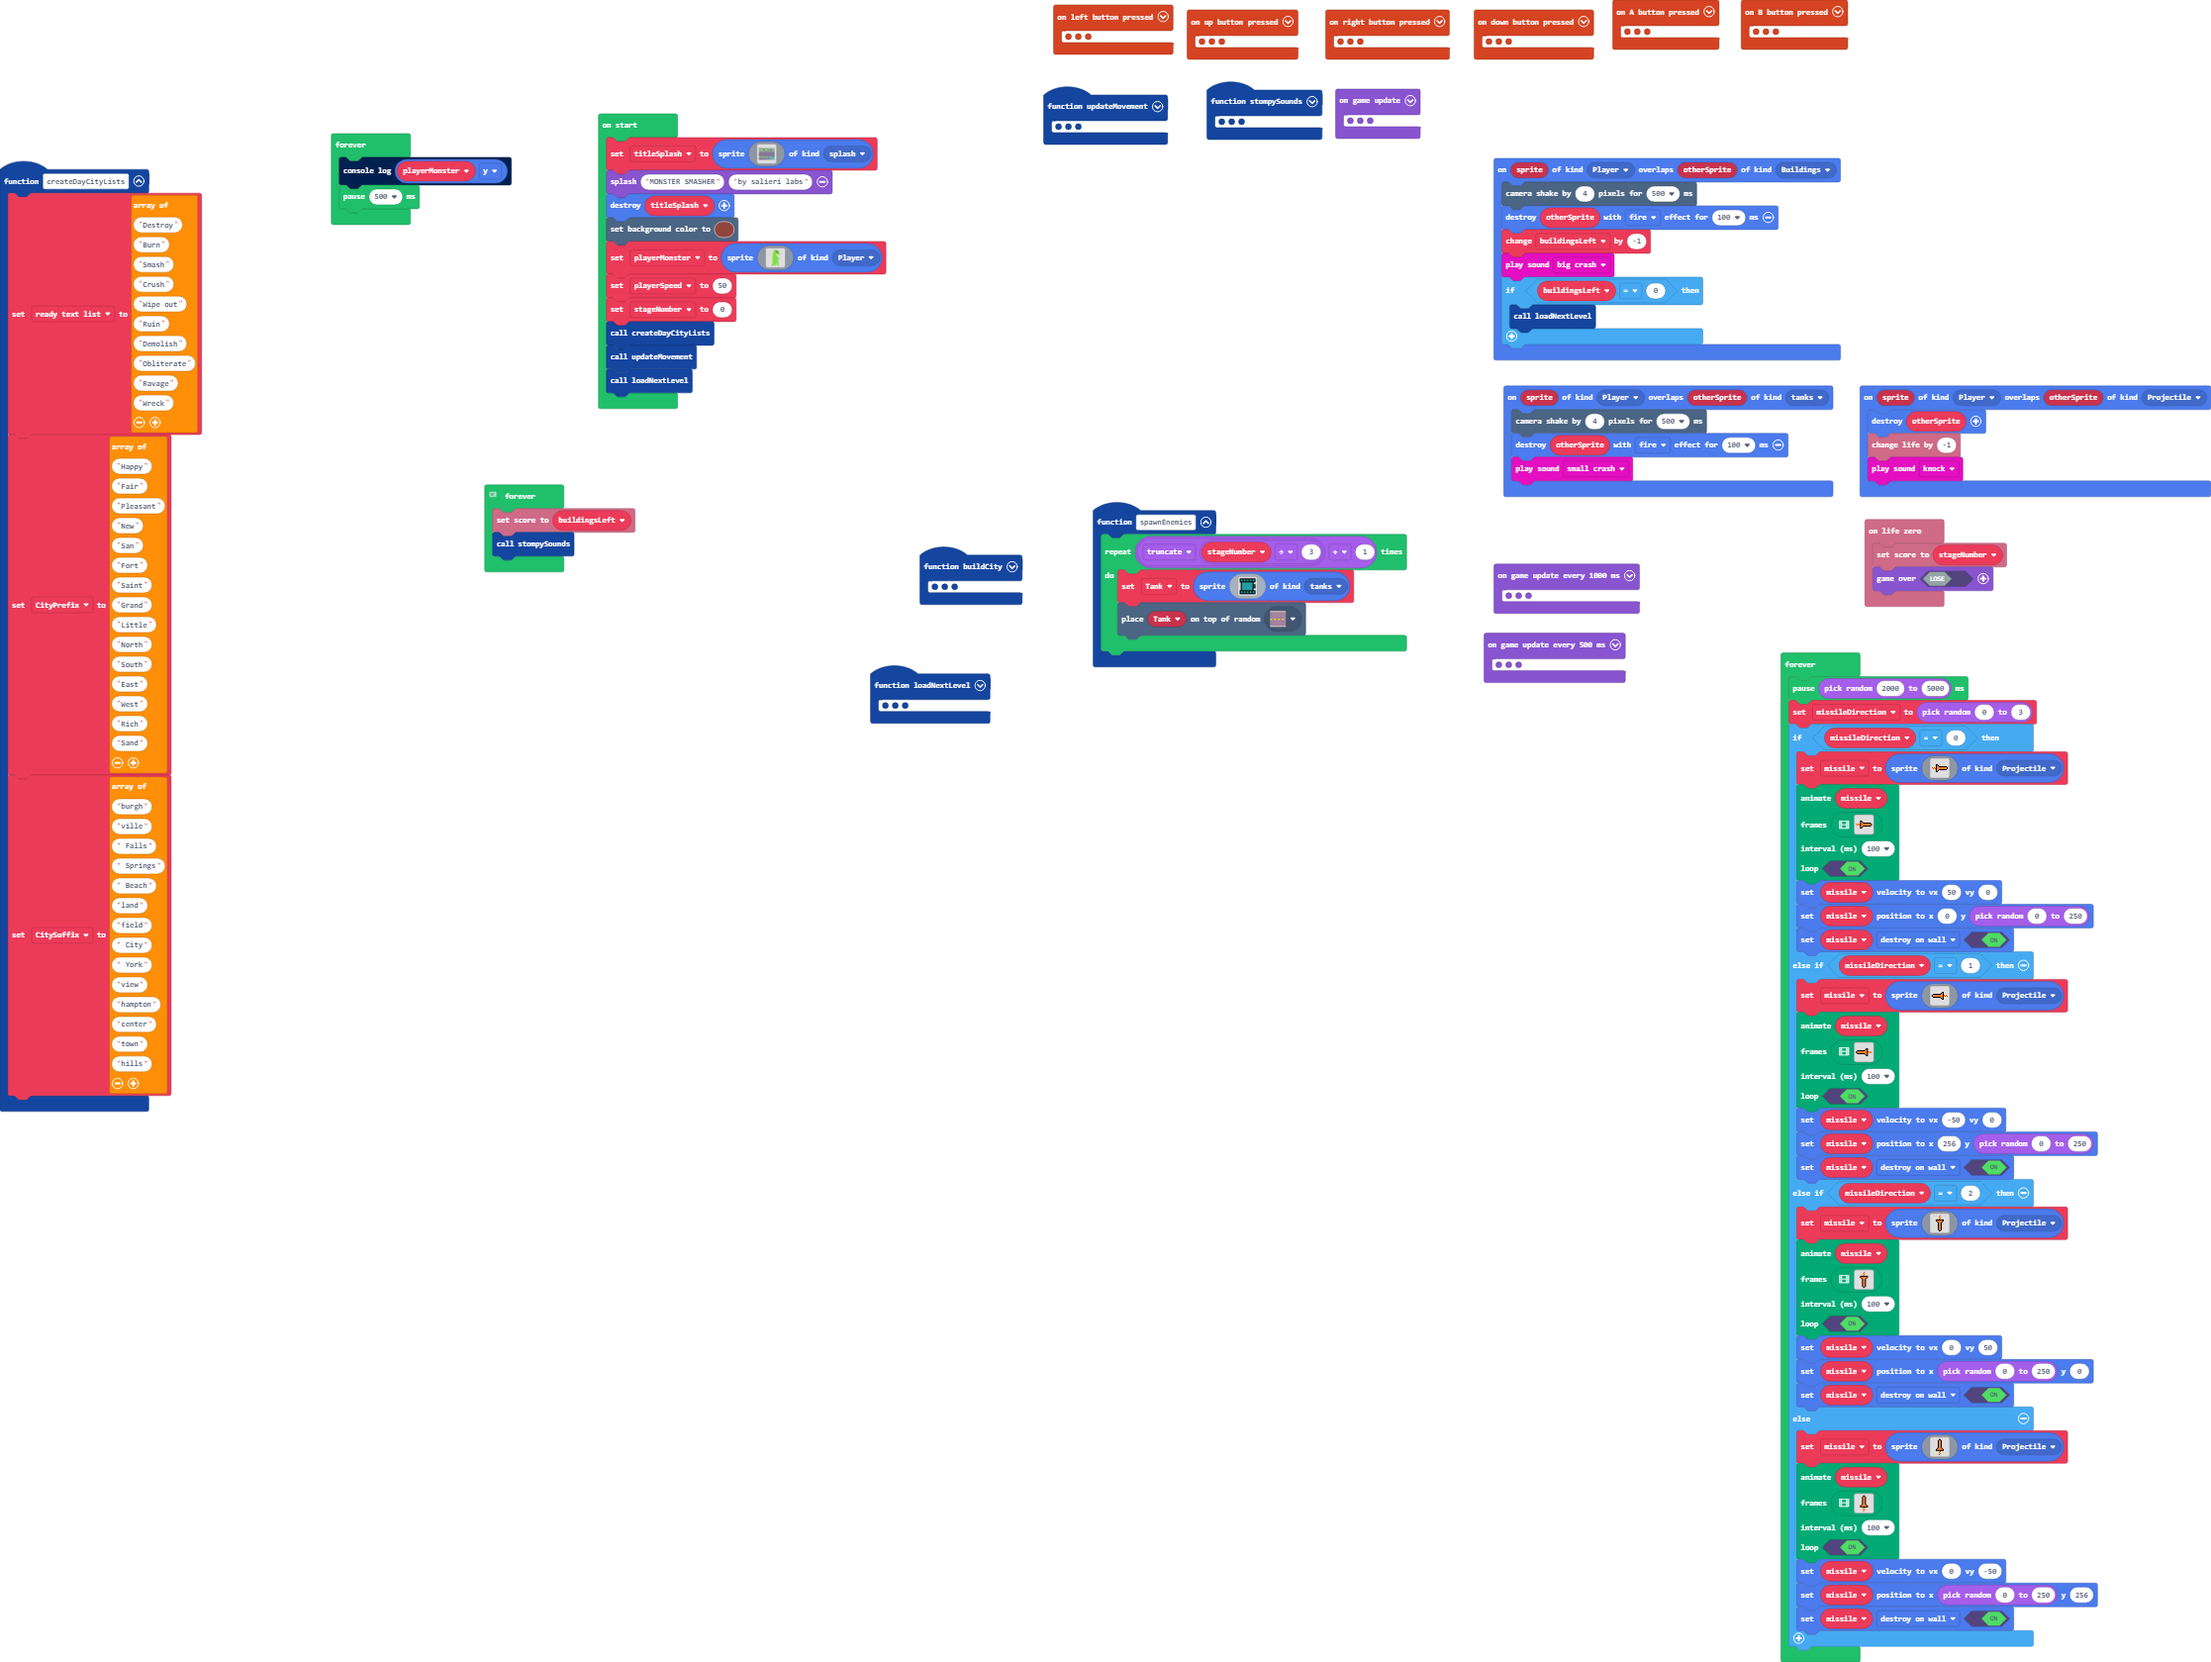
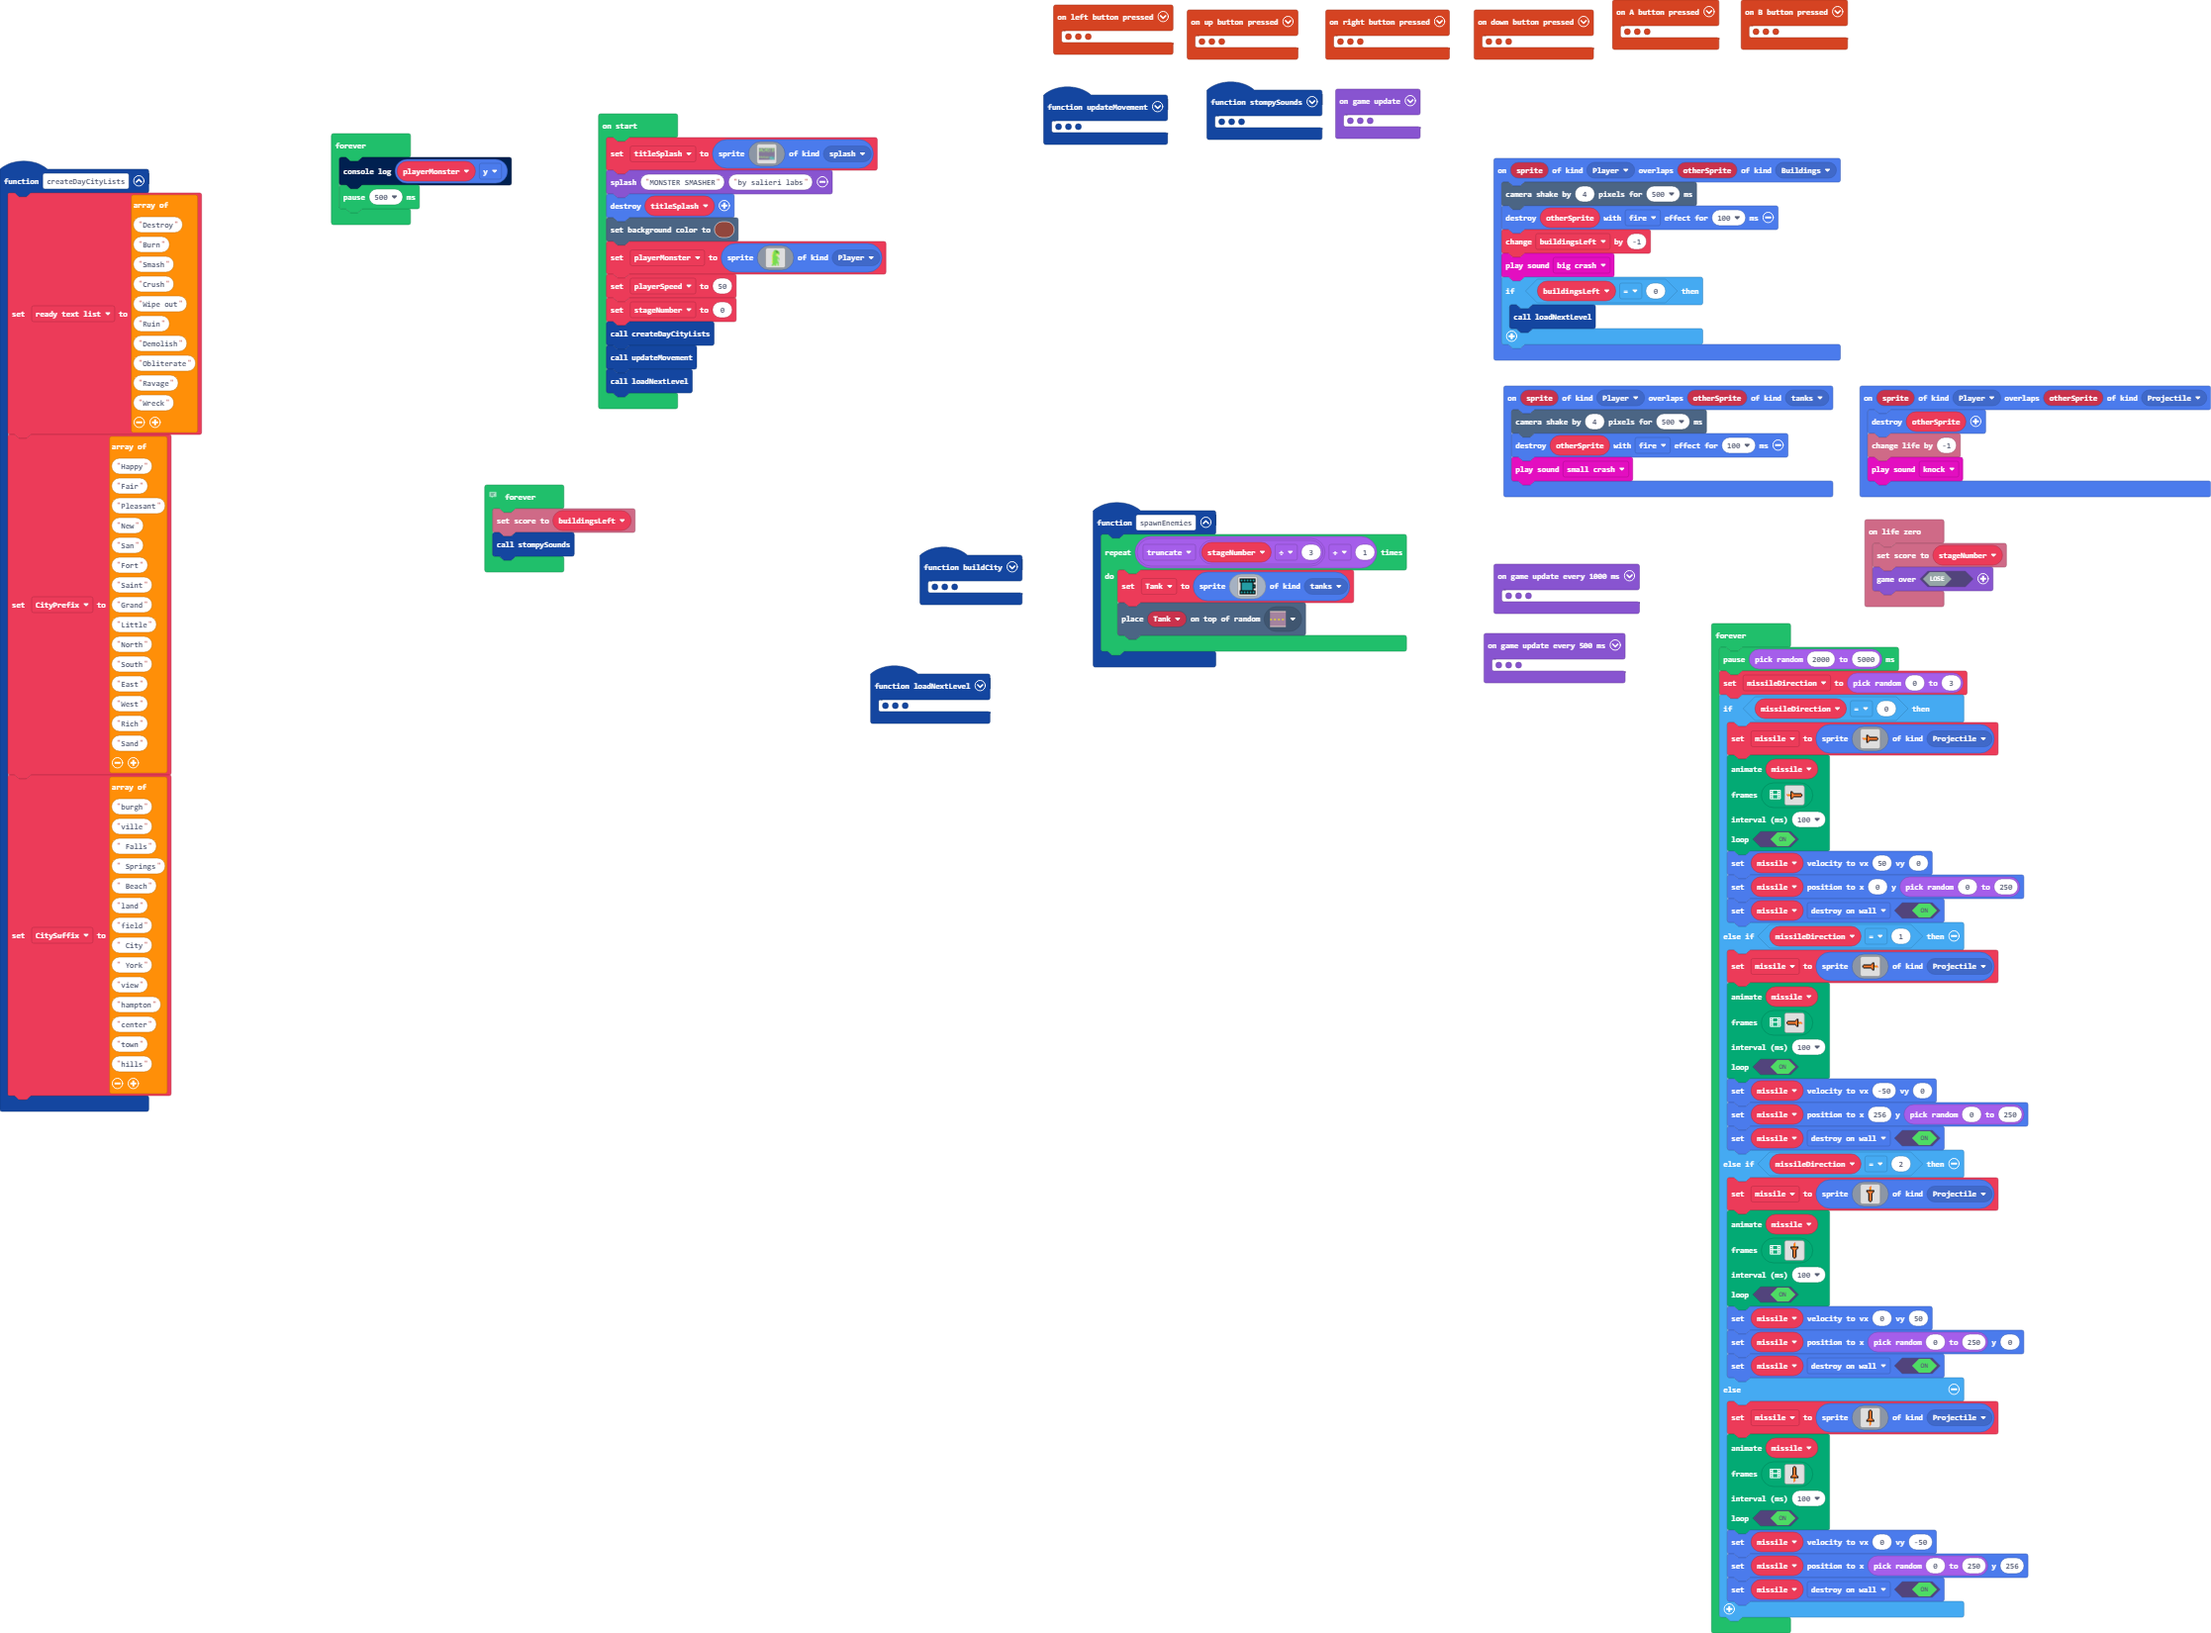
Update main.blocks, images.g.jres, images.g.ts

diff --git a/images.g.ts b/images.g.ts
@@ -483,6 +483,60 @@ f 4 4 4 4 4 4 4 4 4 4 f 5 2 5 2
 . . . . . . . . . . . . . . . . 
 . . . . . . . . . . . . . . . . 
 `;
+            case "image11":return img`
+. . . . . . . . . . . . . . . . 
+. . . . . . . . . . . . . . . . 
+. . . . . . . . . . . . . . . . 
+. . . . . . . . . . . . . . . . 
+. . . . f f . . . . . . . . . . 
+. . . . f 4 f . . . . . . . . . 
+. . . . f 4 4 f f f f f f f f . 
+2 5 2 5 f 4 4 4 4 4 4 4 4 4 4 f 
+. 2 5 2 f 4 4 4 4 4 4 4 4 4 4 f 
+. . . . f 4 4 f f f f f f f f . 
+. . . . f 4 f . . . . . . . . . 
+. . . . f f . . . . . . . . . . 
+. . . . . . . . . . . . . . . . 
+. . . . . . . . . . . . . . . . 
+. . . . . . . . . . . . . . . . 
+. . . . . . . . . . . . . . . . 
+`;
+            case "image17":return img`
+. . . . . . . . . . . . . . . . 
+. . . . . . . . . . . . . . . . 
+. . . . . . . . . . . . . . . . 
+. . . . . . . . . . . . . . . . 
+. . . . . . . . . . . . . . . . 
+. . . . . . . . . . . . . . . . 
+. . . . . . . f . . . . . . . . 
+. . . . . . f 4 f . . . . . . . 
+. . . . . . . f . . . . . . . . 
+. . . . . . . . . . . . . . . . 
+. . . . . . . . . . . . . . . . 
+. . . . . . . . . . . . . . . . 
+. . . . . . . . . . . . . . . . 
+. . . . . . . . . . . . . . . . 
+. . . . . . . . . . . . . . . . 
+. . . . . . . . . . . . . . . . 
+`;
+            case "image18":return img`
+. . . . . . . . . . . . . . . . 
+. . . . . . . . . . . . . . . . 
+. . . . . . . . . . . . . . . . 
+. . . . . . . . . . . . . . . . 
+. . . . . . . . . . . . . . . . 
+. . . . . . . . . . . . . . . . 
+. . . . . . . f . . . . . . . . 
+. . . . . . f 4 f . . . . . . . 
+. . . . . . . f . . . . . . . . 
+. . . . . . . . . . . . . . . . 
+. . . . . . . . . . . . . . . . 
+. . . . . . . . . . . . . . . . 
+. . . . . . . . . . . . . . . . 
+. . . . . . . . . . . . . . . . 
+. . . . . . . . . . . . . . . . 
+. . . . . . . . . . . . . . . . 
+`;
         }
         return null;
     })
@@ -1769,6 +1823,41 @@ f 4 4 4 4 4 4 4 4 4 4 f 2 5 2 .
 . . . . . . . . 2 . . . . . . . 
 `];
             case "anim22":return [img`
+. . . . . . . . . . . . . . . . 
+. . . . . . . . . . . . . . . . 
+. . . . . . . . . . . . . . . . 
+. . . . . . . . . . . . . . . . 
+. . . . f f . . . . . . . . . . 
+. . . . f 4 f . . . . . . . . . 
+. . . . f 4 4 f f f f f f f f . 
+2 5 2 5 f 4 4 4 4 4 4 4 4 4 4 f 
+. 2 5 2 f 4 4 4 4 4 4 4 4 4 4 f 
+. . . . f 4 4 f f f f f f f f . 
+. . . . f 4 f . . . . . . . . . 
+. . . . f f . . . . . . . . . . 
+. . . . . . . . . . . . . . . . 
+. . . . . . . . . . . . . . . . 
+. . . . . . . . . . . . . . . . 
+. . . . . . . . . . . . . . . . 
+`, img`
+. . . . . . . . . . . . . . . . 
+. . . . . . . . . . . . . . . . 
+. . . . . . . . . . . . . . . . 
+. . . . . . . . . . . . . . . . 
+. . . . f f . . . . . . . . . . 
+. . . . f 4 f . . . . . . . . . 
+. . . . f 4 4 f f f f f f f f . 
+. 2 5 2 f 4 4 4 4 4 4 4 4 4 4 f 
+2 5 2 5 f 4 4 4 4 4 4 4 4 4 4 f 
+. . . . f 4 4 f f f f f f f f . 
+. . . . f 4 f . . . . . . . . . 
+. . . . f f . . . . . . . . . . 
+. . . . . . . . . . . . . . . . 
+. . . . . . . . . . . . . . . . 
+. . . . . . . . . . . . . . . . 
+. . . . . . . . . . . . . . . . 
+`];
+            case "anim23":return [img`
 . . . . . . . . . . . . . . . . 
 . . . . . . . . . . . . . . . . 
 . . . . . . . . . . . . . . . . 
